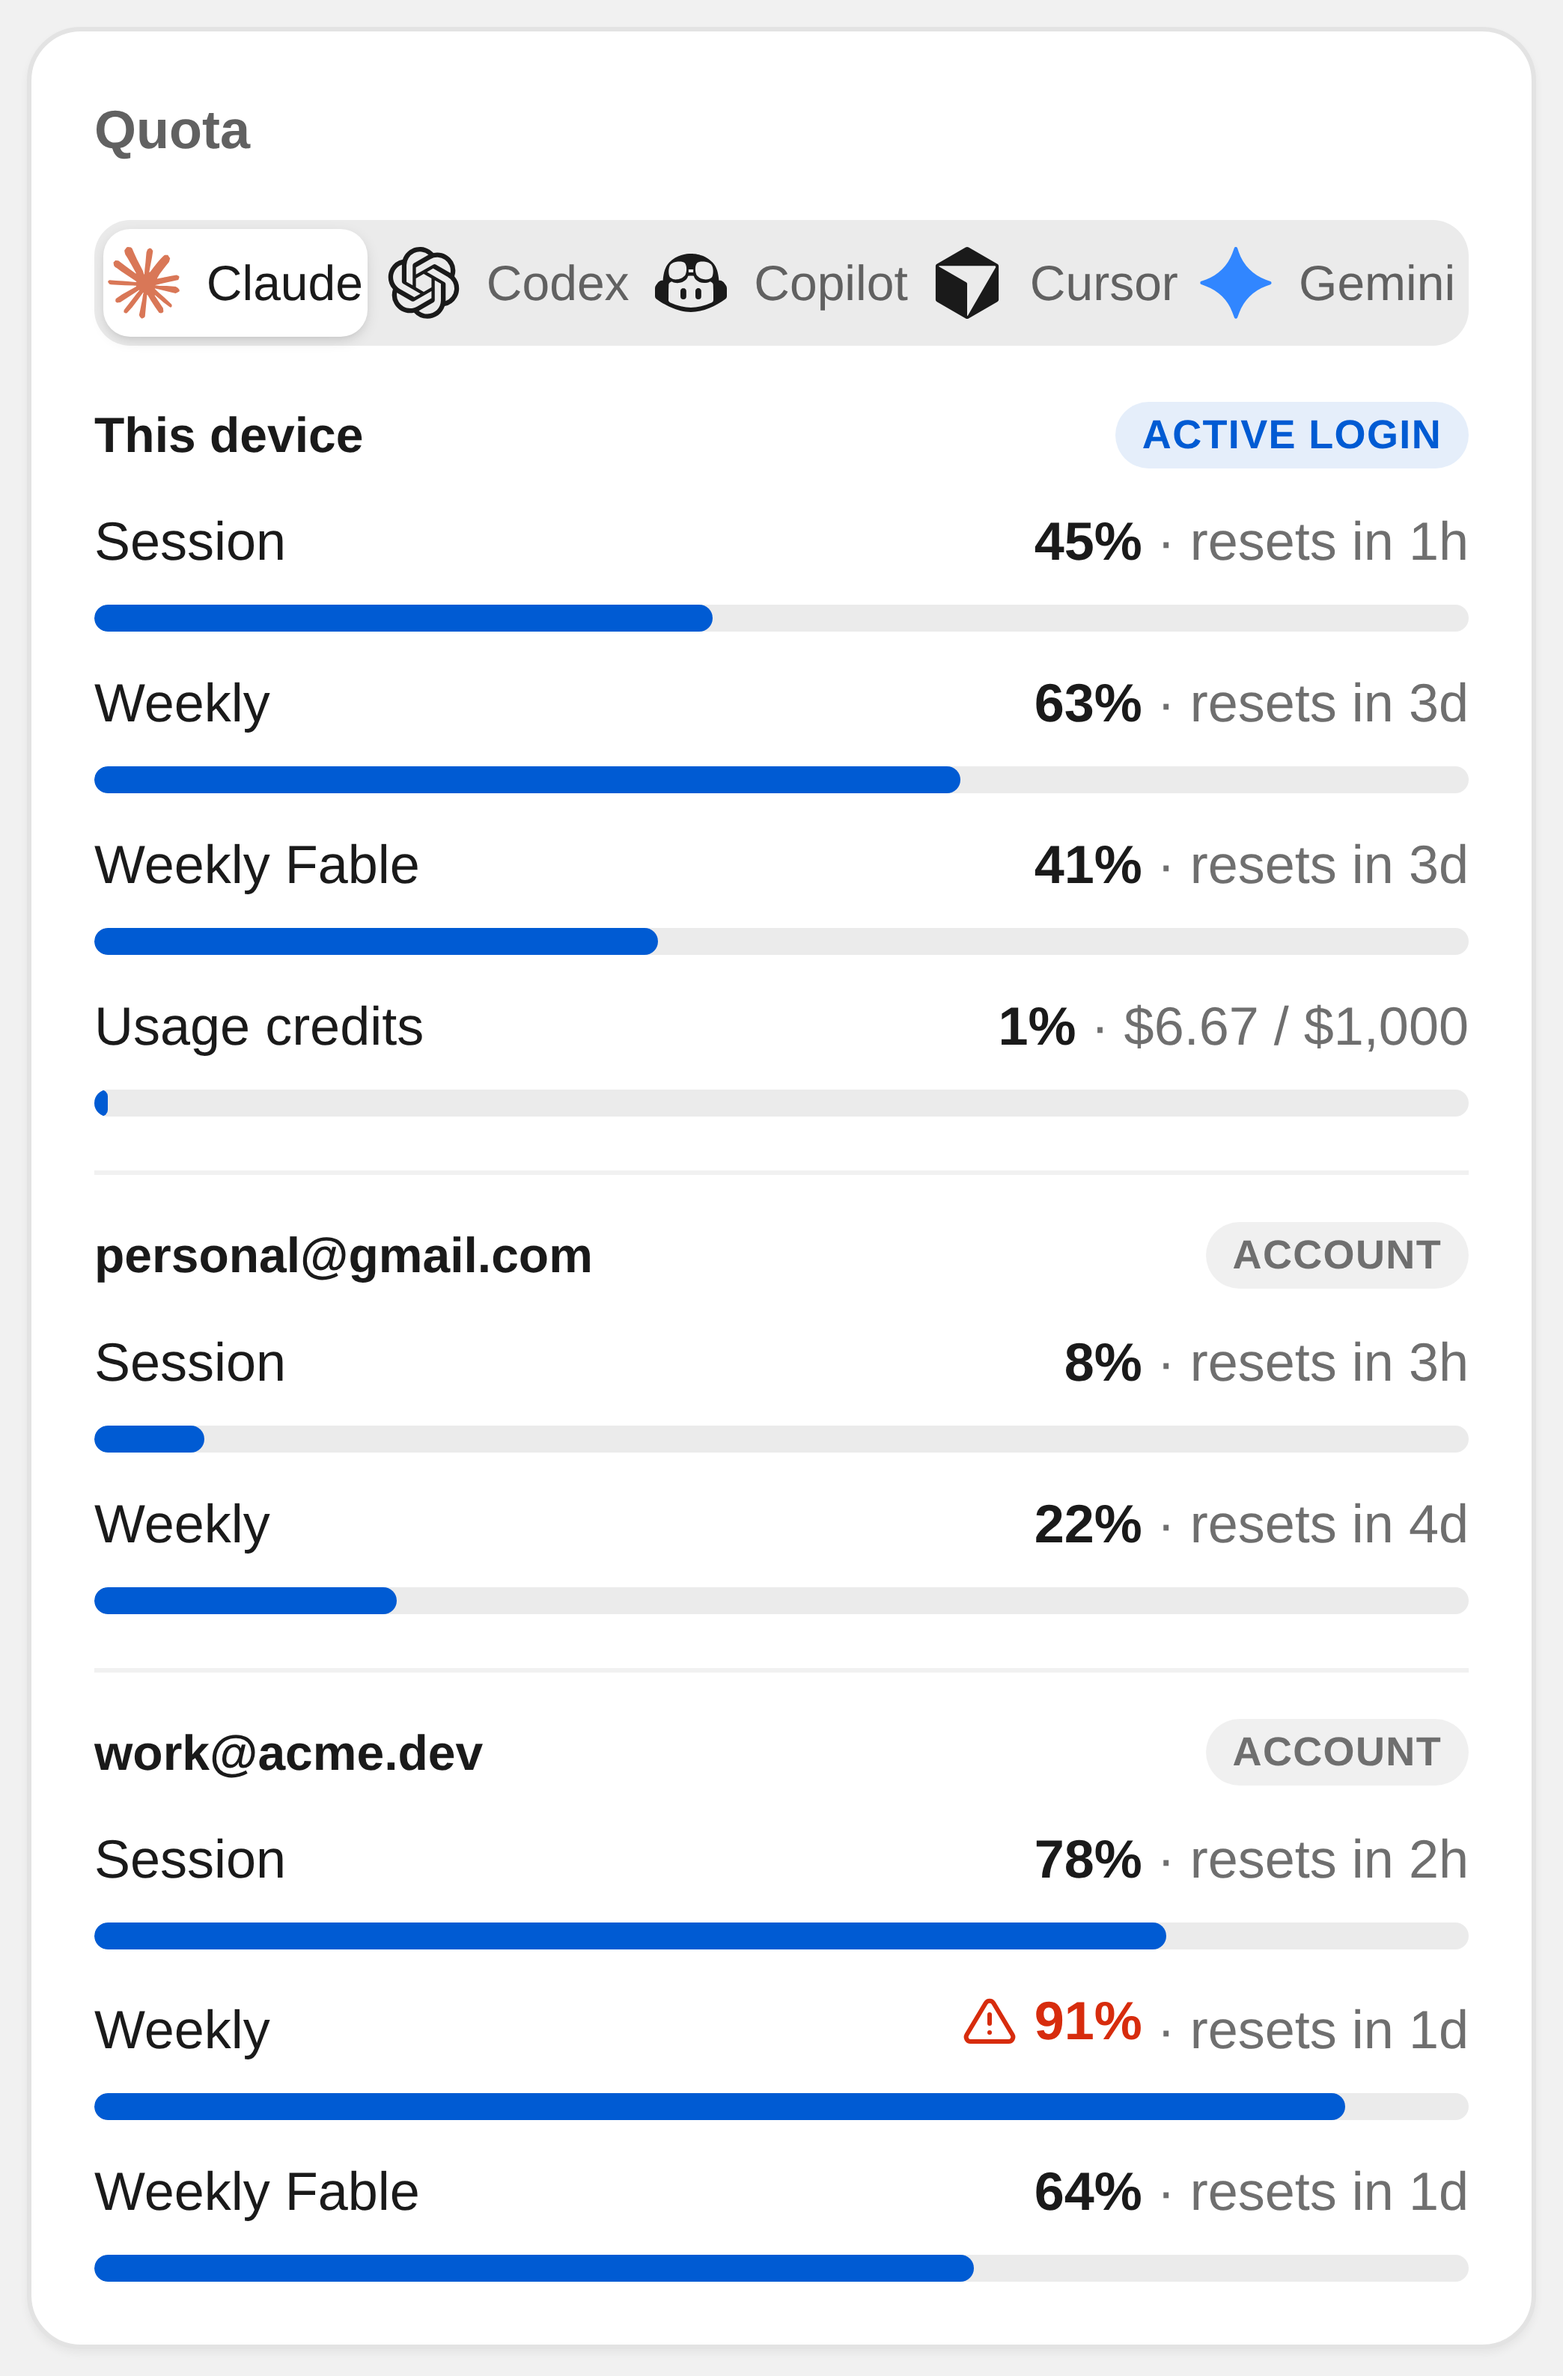
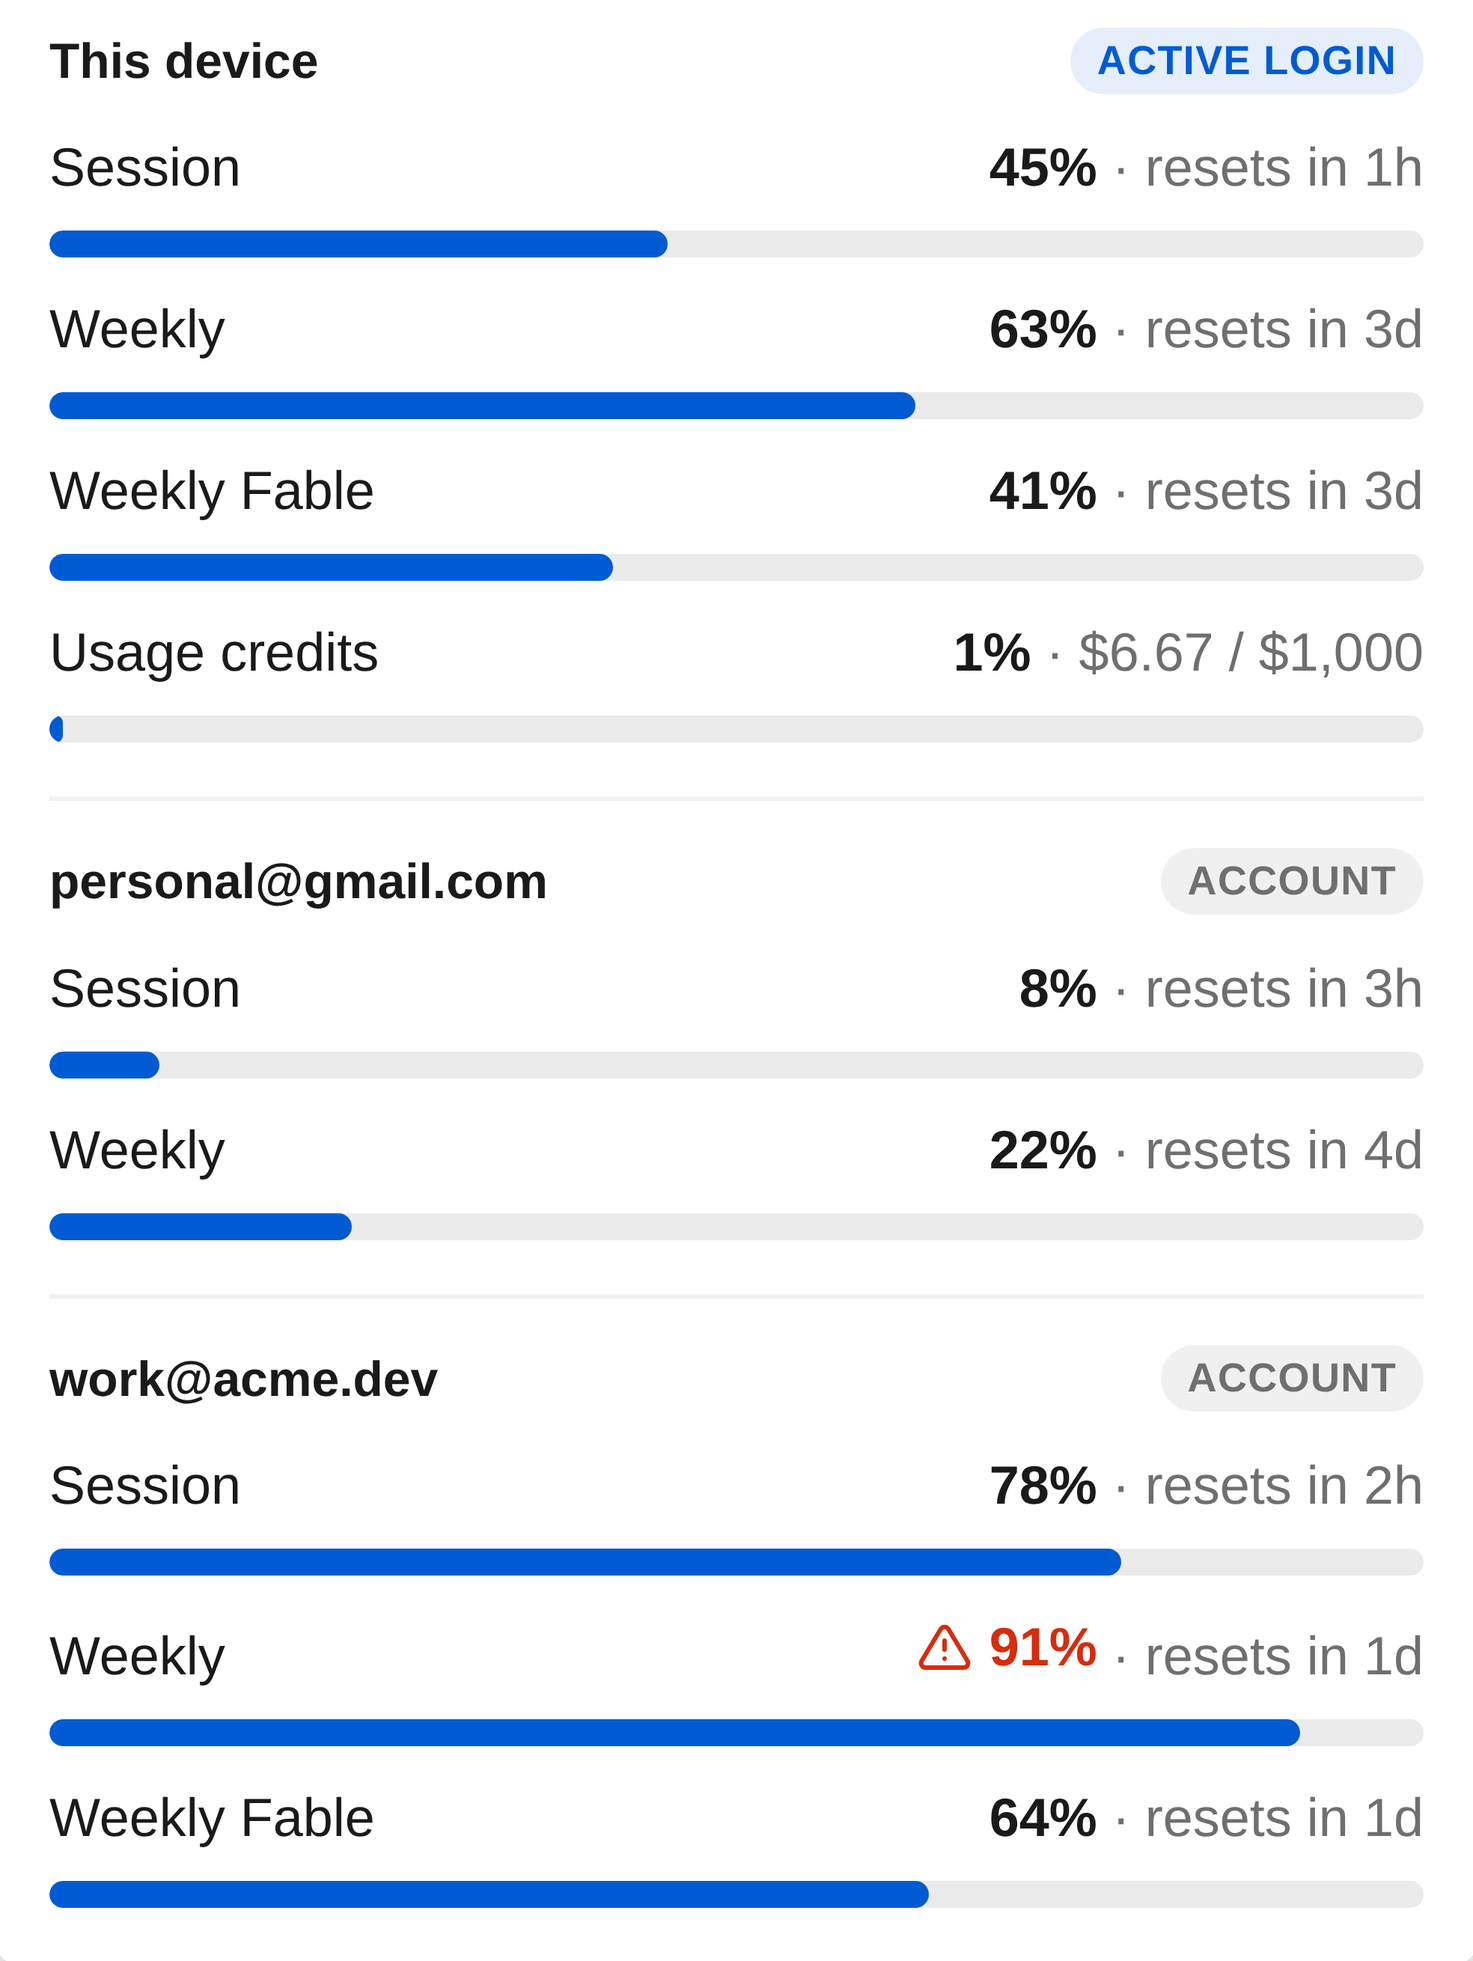
Polish the multi-account section: cropped shot, shadcn-style code block
Crop the screenshot to just the account list (no popup chrome/tabs) and
replace the faux terminal with a docs-style code block: dark rounded panel,
muted comments, no prompt glyphs or window dots, horizontal scroll instead
of wrapping, and a copy button with a copied check state.

Claude-Session: https://claude.ai/code/session_01Q4yVsDPnSvfSgpjdN3d1gA

diff --git a/docs/index.html b/docs/index.html
@@ -262,8 +262,24 @@
     outline: 1px solid rgba(0,0,0,.1); outline-offset: -1px;
     filter: none; box-shadow: var(--shadow-card);
   }
-  .pp.acct-term { margin-top: 26px; border-radius: 8px; border-bottom: 1px solid #1a1a1a; }
-  .pp.acct-term .pp-mono { overflow-wrap: anywhere; }
+  .codeblock { position: relative; margin-top: 26px; border-radius: 10px; background: var(--ink-950); }
+  .codeblock pre { margin: 0; padding: 16px 52px 16px 18px; overflow-x: auto; scrollbar-width: thin; }
+  .codeblock code {
+    font-family: ui-monospace, "Cascadia Mono", Consolas, monospace;
+    font-size: 13px; line-height: 1.75; white-space: pre; color: #e4e4e7;
+  }
+  .codeblock .c { color: #71717a; }
+  .codeblock-copy {
+    position: absolute; top: 10px; right: 10px; z-index: 1;
+    display: inline-flex; align-items: center; justify-content: center;
+    width: 28px; height: 28px; border-radius: 6px; cursor: pointer;
+    border: 1px solid rgba(255,255,255,.12); background: var(--ink-950); color: #a1a1aa;
+    transition: color .15s, background .15s;
+  }
+  .codeblock-copy:hover { background: rgba(255,255,255,.08); color: #fff; }
+  .codeblock-copy .ic-check { display: none; }
+  .codeblock-copy.copied .ic-copy { display: none; }
+  .codeblock-copy.copied .ic-check { display: block; color: #7dd3a0; }
 
   /* ---------- privacy ---------- */
   .pp-mono { font-family: ui-monospace, "Cascadia Mono", Consolas, monospace; font-size: .917em; }
@@ -732,13 +748,20 @@
         <li><span class="check"><svg width="11" height="11" viewBox="0 0 16 16" fill="none" aria-hidden="true"><path d="M3 8.5l3.5 3.5L13 5" stroke="currentColor" stroke-width="2.2" stroke-linecap="round" stroke-linejoin="round"/></svg></span>Tokens refresh automatically in place, so every login stays live &mdash; set it and forget it</li>
         <li><span class="check"><svg width="11" height="11" viewBox="0 0 16 16" fill="none" aria-hidden="true"><path d="M3 8.5l3.5 3.5L13 5" stroke="currentColor" stroke-width="2.2" stroke-linecap="round" stroke-linejoin="round"/></svg></span>The filename becomes the account name; new files are picked up on the next poll, no restart</li>
       </ul>
-      <div class="pp pp-term acct-term">
-        <div class="pp-dots" aria-hidden="true"><i></i><i></i><i></i></div>
-        <div class="pp-mono"><span>$</span> CLAUDE_CONFIG_DIR=~/.claude-work claude <b>/login</b><br><span>$</span> cp ~/.claude-work/.credentials.json <b>~/.claude-accounts/claude-work@acme.dev.json</b><br><i>✓</i> work@acme.dev shows up on the next poll</div>
+      <div class="codeblock">
+        <button class="codeblock-copy" type="button" aria-label="Copy commands" onclick="navigator.clipboard.writeText(this.nextElementSibling.innerText);this.classList.add('copied');setTimeout(()=>this.classList.remove('copied'),1600)">
+          <svg class="ic-copy" width="14" height="14" viewBox="0 0 16 16" fill="none" stroke="currentColor" stroke-width="1.4" aria-hidden="true"><rect x="5.5" y="5.5" width="8" height="8" rx="1.5"/><path d="M10.5 5.5V4a1.5 1.5 0 0 0-1.5-1.5H4A1.5 1.5 0 0 0 2.5 4v5A1.5 1.5 0 0 0 4 10.5h1.5"/></svg>
+          <svg class="ic-check" width="14" height="14" viewBox="0 0 16 16" fill="none" stroke="currentColor" stroke-width="1.8" stroke-linecap="round" stroke-linejoin="round" aria-hidden="true"><path d="M3 8.5l3.5 3.5L13 5"/></svg>
+        </button>
+        <pre><code><span class="c"># log in once with a separate config dir</span>
+CLAUDE_CONFIG_DIR=~/.claude-work claude /login
+
+<span class="c"># save the credentials — the filename becomes the account name</span>
+cp ~/.claude-work/.credentials.json ~/.claude-accounts/claude-work@acme.dev.json</code></pre>
       </div>
     </div>
     <div class="widget-visual acct-visual reveal">
-      <img src="screenshots/multiaccount-light.png" alt="The Claude quota tab listing three accounts — the active login on this device, personal@gmail.com, and work@acme.dev — each with its own session and weekly bars." loading="lazy" width="2088" height="3175">
+      <img src="screenshots/multiaccount-light.png" alt="The account list from the Claude quota tab: the active login on this device, personal@gmail.com, and work@acme.dev, each with its own session and weekly bars." loading="lazy" width="1968" height="2620">
     </div>
   </div>
 </section>
